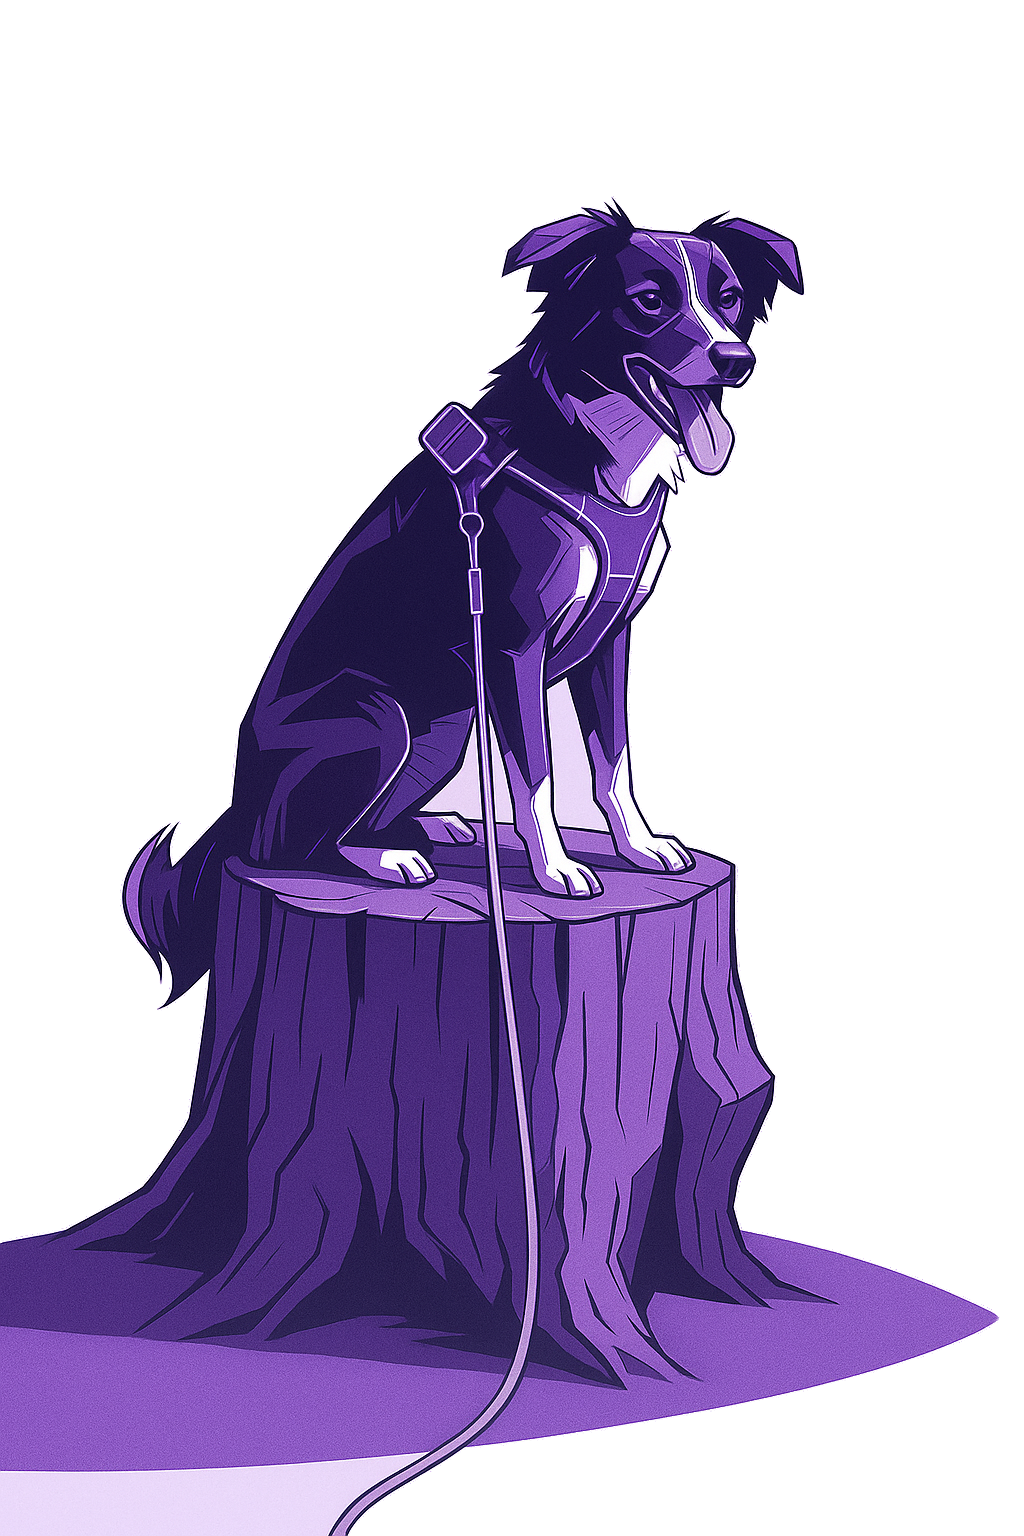
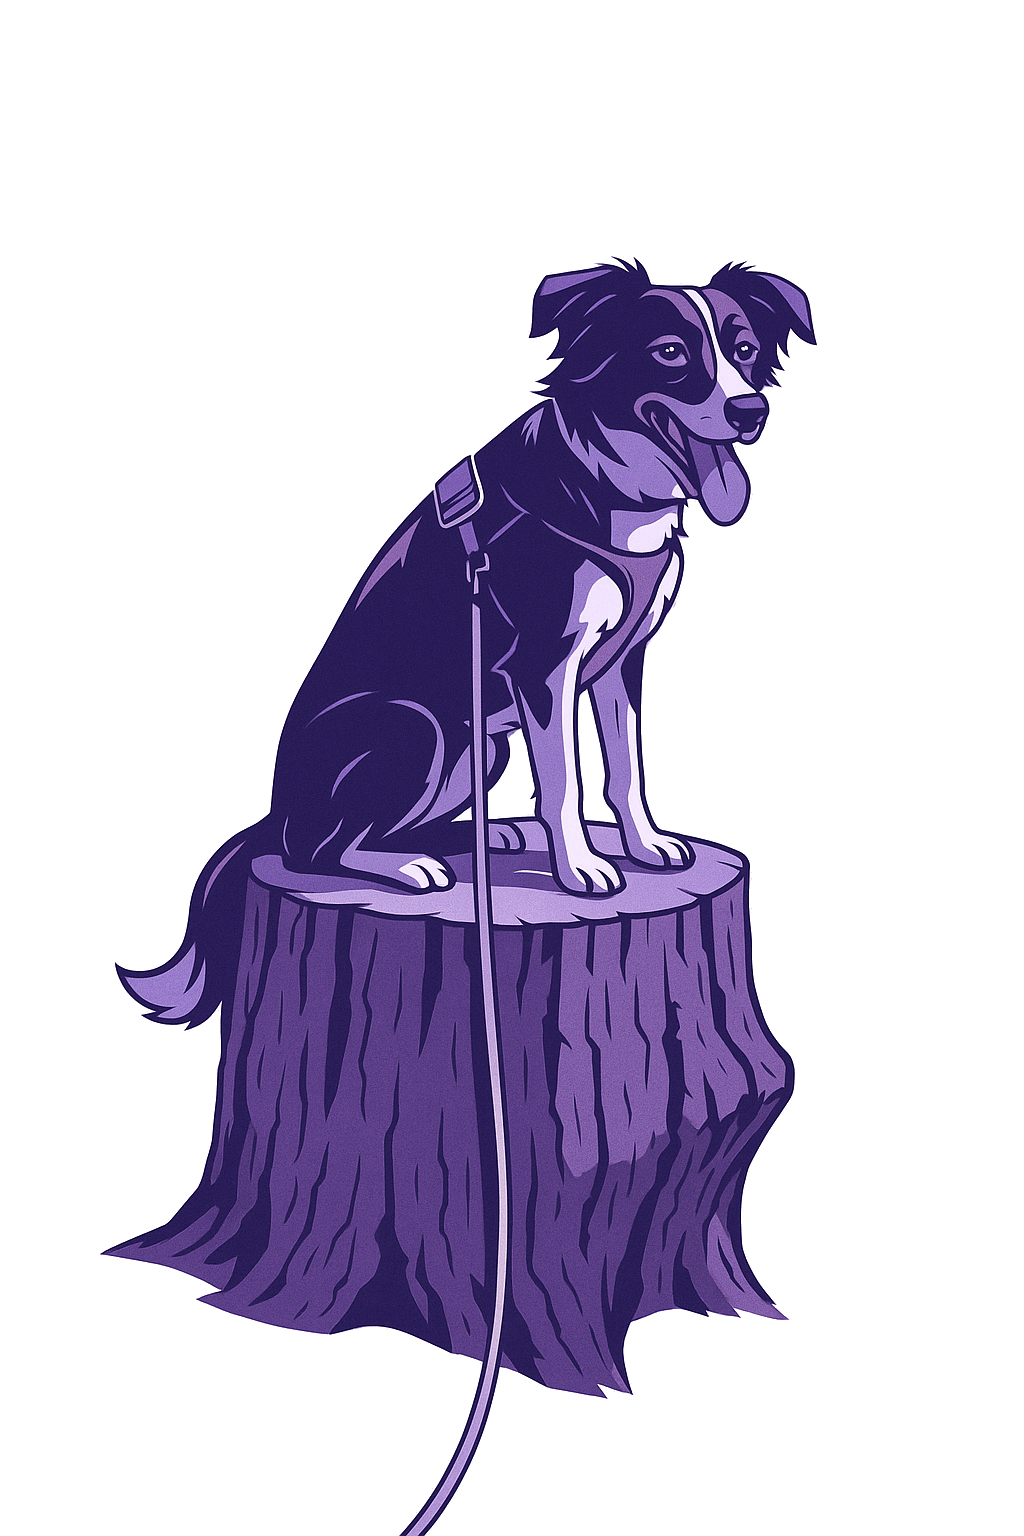
updated some about me Informations
+ changed the mali pic

diff --git a/src/components/About.jsx b/src/components/About.jsx
@@ -21,22 +21,24 @@ const About = () => {
         />
 
         <div className="relative">
-          <div className="relative z-1 flex items-center h-[39rem] mb-5 p-8 border border-n-1/10 rounded-3xl overflow-hidden lg:p-20 xl:h-[46rem]">
-            <div className="absolute top-0 left-0 w-full h-full pointer-events-none md:w-3/5 xl:w-auto -translate-x-[14rem] md:-translate-x-0 ">
-              <img
-                className="w-full h-full object-cover md:object-right"
-                width={1024}
-                alt="Smartest AI"
-                height={1536}
-                src={mali}
-              />
-            </div>
-
-            <div className="relative z-1 max-w-[17rem] ml-auto">
+          <div className="relative z-1 flex flex-col md:flex-row items-center h-auto mb-5 p-8 border border-n-1/10 rounded-3xl overflow-hidden md:p-20 xl:h-[46rem]">
+            <div className="relative z-1 max-w-[17rem]">
               <h4 className="h4 mb-4">Dog training</h4>
               <p className="body-2 mb-[3rem] text-n-3">
                 Regular training and hiking sessions with my dog Mali.
               </p>
+
+              {/* Image for small screens */}
+              <div className="block md:hidden mb-4">
+                <img
+                  className="w-full h-auto object-cover"
+                  width={1024}
+                  alt="Mali"
+                  height={1536}
+                  src={mali}
+                />
+              </div>
+
               <ul className="body-2">
                 {brainwaveServices.map((item, index) => (
                   <li
@@ -50,7 +52,16 @@ const About = () => {
               </ul>
             </div>
 
-            <Generating className="absolute left-4 right-4 bottom-4 border-n-1/10 border lg:left-1/2 lg-right-auto lg:bottom-8 lg:-translate-x-1/2" />
+            {/* Image for medium and larger screens */}
+            <div className="hidden md:block w-full md:w-3/5">
+              <img
+                className="w-full h-auto object-cover md:object-right"
+                width={1024}
+                alt="Mali"
+                height={1536}
+                src={mali}
+              />
+            </div>
           </div>
 
           <div className="relative z-1 grid gap-5 lg:grid-cols-2">
@@ -66,10 +77,10 @@ const About = () => {
               </div>
 
               <div className="absolute inset-0 flex flex-col justify-end p-8 bg-gradient-to-b from-n-8/0 to-n-8/90 lg:p-15">
-                <h4 className="h4 mb-4">Photo editing</h4>
+                <h4 className="h4 mb-4">Family Time</h4>
                 <p className="body-2 mb-[3rem] text-n-3">
-                  Automatically enhance your photos using our AI app&apos;s
-                  photo editing feature. Try it now!
+                  In April our first child was born. So spending a lot of time
+                  with my doughter is a top priority.
                 </p>
               </div>
 
@@ -78,10 +89,10 @@ const About = () => {
 
             <div className="p-4 bg-n-7 rounded-3xl overflow-hidden lg:min-h-[46rem]">
               <div className="py-12 px-4 xl:px-8">
-                <h4 className="h4 mb-4">Video generation</h4>
+                <h4 className="h4 mb-4">Gaming is my passion</h4>
                 <p className="body-2 mb-[2rem] text-n-3">
-                  The world’s most powerful AI photo and video art generation
-                  engine. What will you create?
+                  Competitve gaming is my biggest hobby. I love to challenge
+                  myself and constently improving my skills.
                 </p>
 
                 <ul className="flex items-center justify-between">
